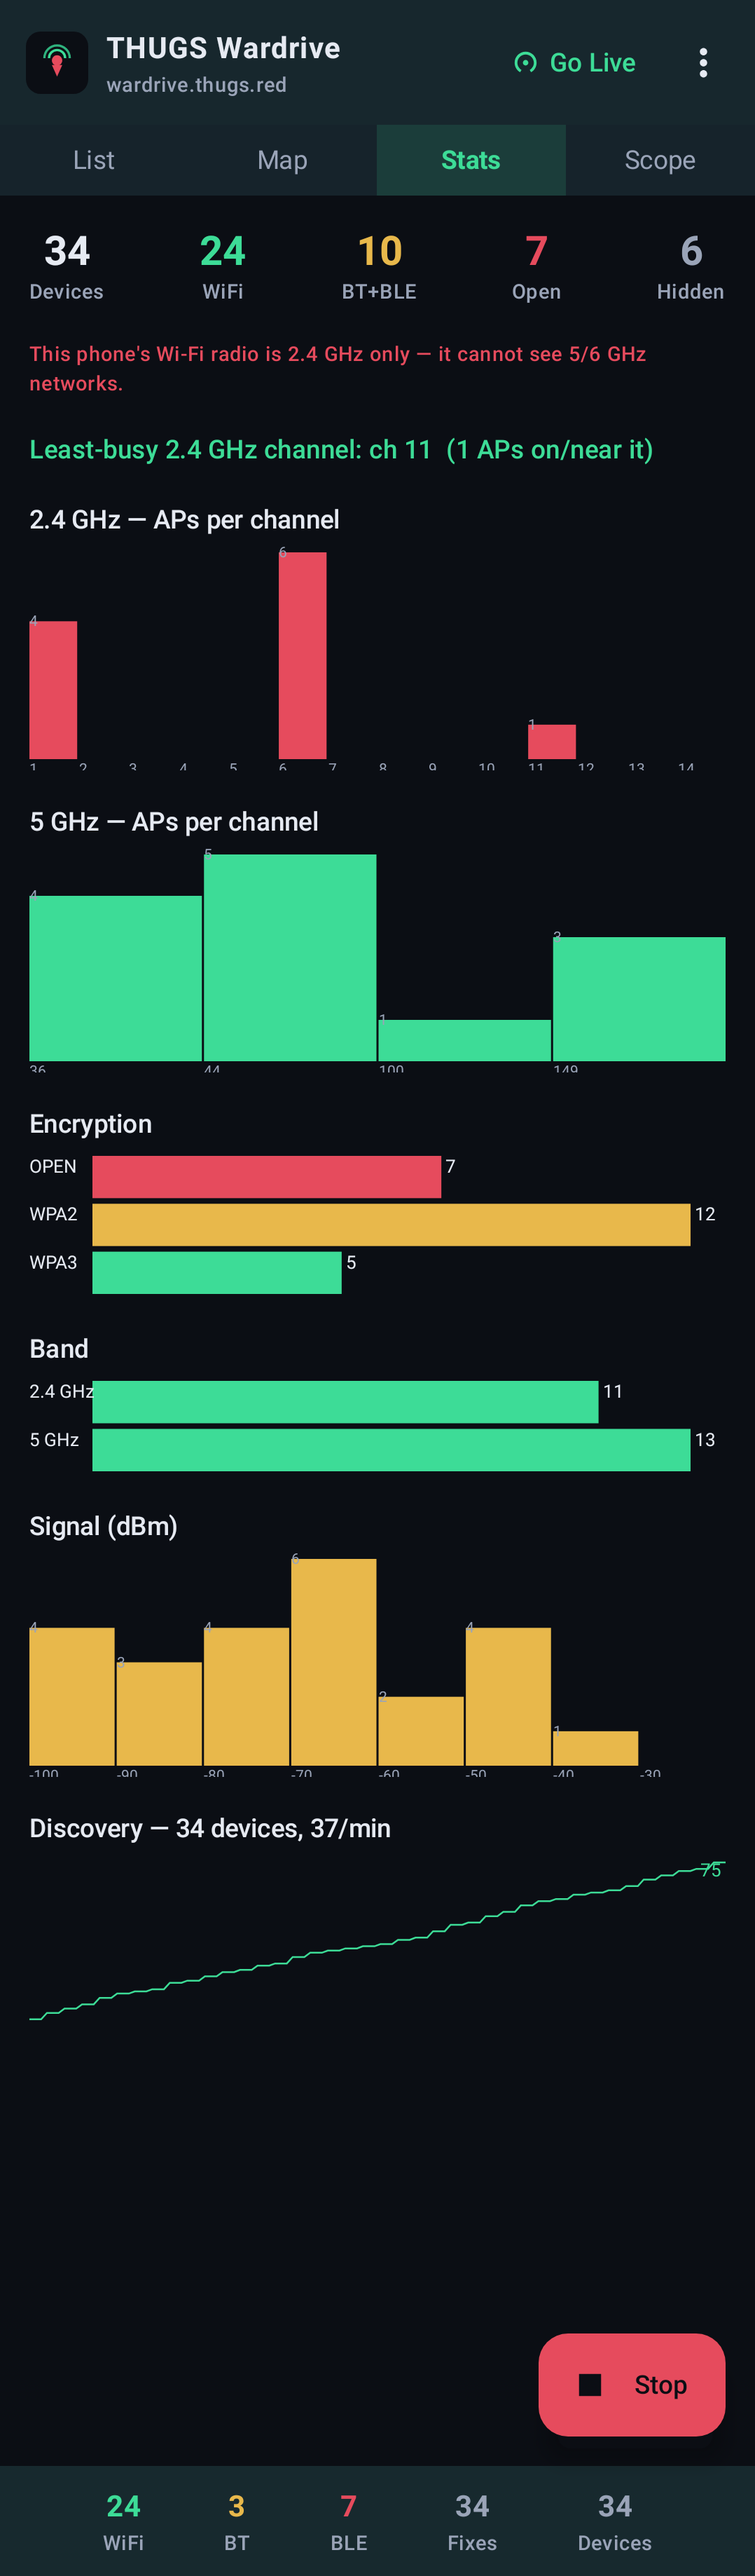
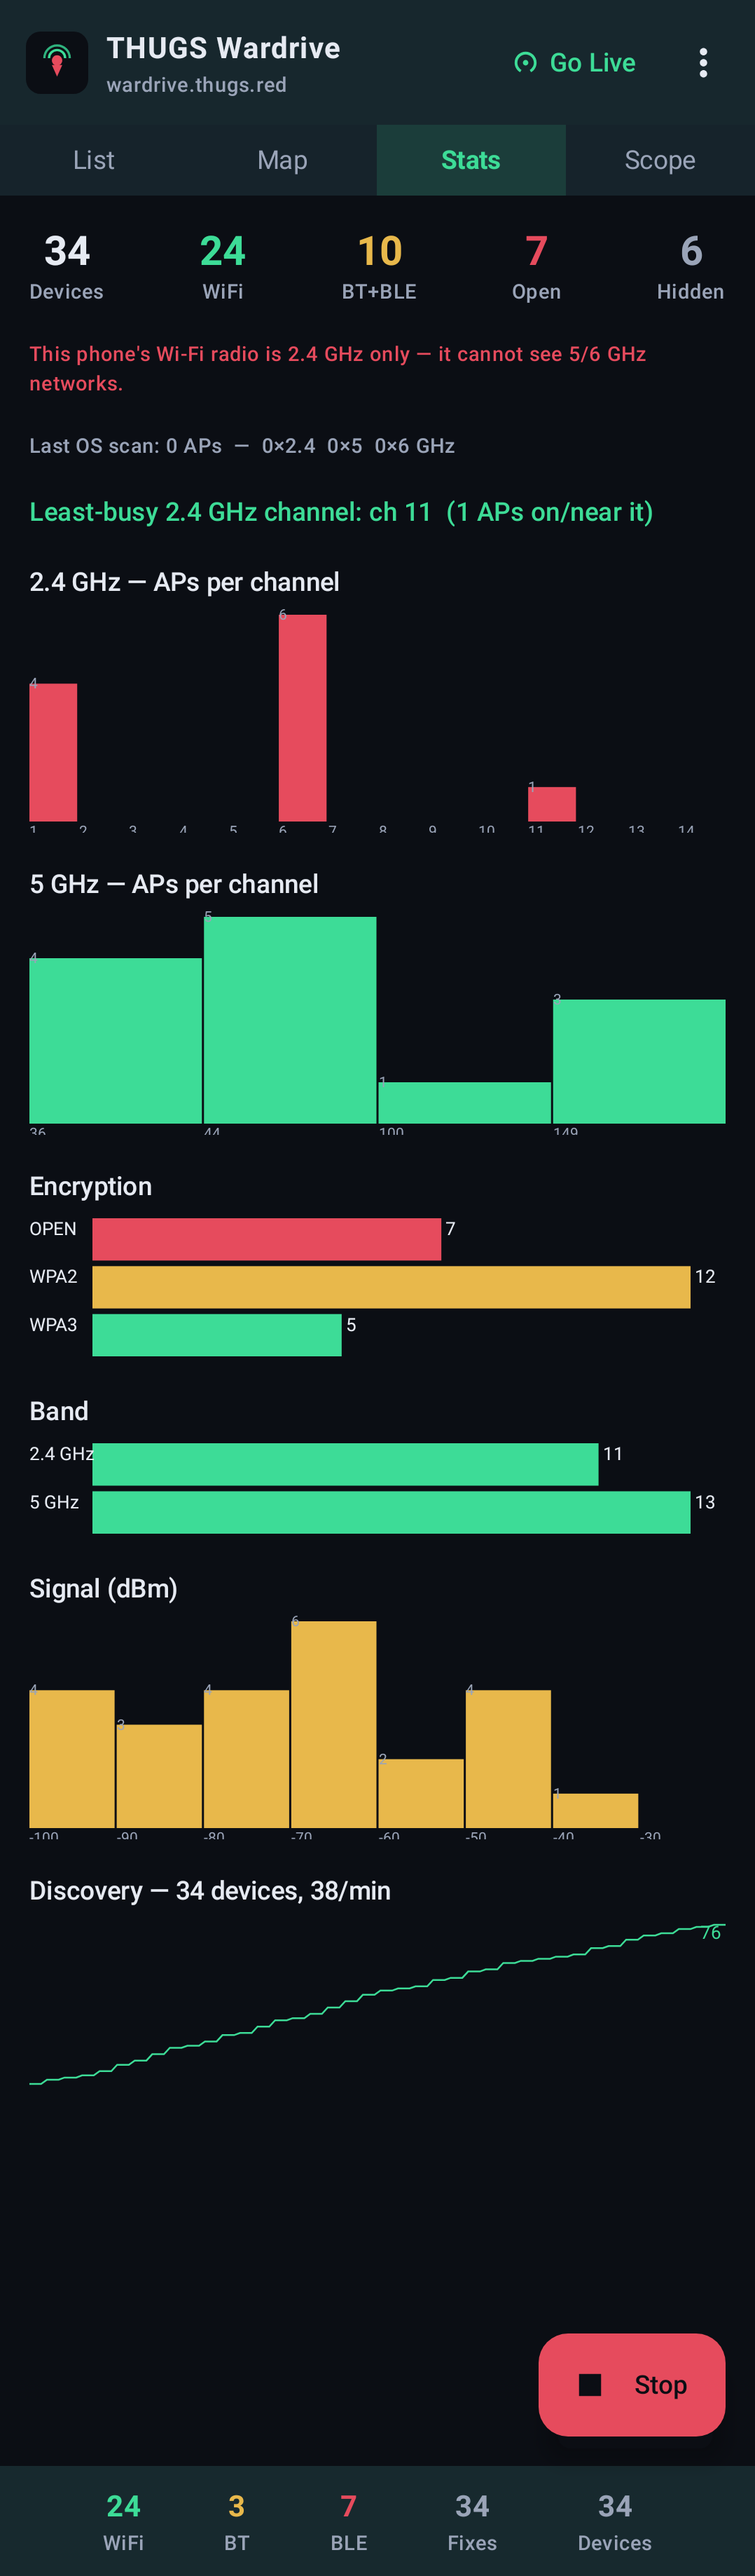
v1.9: live per-band scan diagnostic + Xiaomi 5 GHz guidance
- Stats shows a live breakdown of the OS scan cache by band ("Last OS scan: N
  APs — X×2.4  Y×5  Z×6 GHz"). Y=0 on a dual-band phone means the ROM, not the
  app, is withholding 5 GHz — the app applies no band filter.
- Settings: device band support, a "Scan now (test)" button, and Xiaomi/MIUI
  guidance (Wi-Fi power saving / Wi-Fi assistant off, non-DFS test channel,
  scan-throttling off).
- WifiScanner honours EXTRA_RESULTS_UPDATED=false to retry a failed scan sooner.
- Optimise guide: "No 5 GHz networks showing up?" section.

versionName 1.9, versionCode 10.

Claude-Session: https://claude.ai/code/session_012N825MYhuppVoQzx9MpWpz

Changed region(s): [[0.0306, 0.1551, 0.9796, 0.7445], [0.7653, 0.1551, 0.7959, 0.2171], [0.6429, 0.1551, 0.6735, 0.2171]]

diff --git a/app/src/main/java/red/thugs/wardrive/ui/StatsScreen.kt b/app/src/main/java/red/thugs/wardrive/ui/StatsScreen.kt
@@ -13,6 +13,8 @@ import androidx.compose.foundation.verticalScroll
 import androidx.compose.material3.MaterialTheme
 import androidx.compose.material3.Text
 import androidx.compose.runtime.Composable
+import androidx.compose.runtime.getValue
+import androidx.compose.runtime.produceState
 import androidx.compose.runtime.remember
 import androidx.compose.ui.Alignment
 import androidx.compose.ui.Modifier
@@ -88,6 +90,31 @@ fun StatsScreen(
             },
             style = MaterialTheme.typography.labelSmall,
             color = if (radioBands.size == 1) cs.tertiary else cs.onSurfaceVariant,
+        )
+
+        // Live view of what the OS's scan cache actually contains, by band.
+        val rawScan by produceState(initialValue = Triple(0, 0, 0), ctx) {
+            val wm = ctx.applicationContext.getSystemService(android.content.Context.WIFI_SERVICE)
+                as android.net.wifi.WifiManager
+            while (true) {
+                @Suppress("MissingPermission", "DEPRECATION")
+                val res = runCatching { wm.scanResults }.getOrDefault(emptyList())
+                value = Triple(
+                    res.count { it.frequency in 2401..2500 },
+                    res.count { it.frequency in 4901..5899 },
+                    res.count { it.frequency >= 5900 },
+                )
+                kotlinx.coroutines.delay(3000)
+            }
+        }
+        val (rb2, rb5, rb6) = rawScan
+        val fiveMissing = radioBands.contains("5") && rb5 == 0
+        Text(
+            "Last OS scan: ${rb2 + rb5 + rb6} APs  —  ${rb2}×2.4  ${rb5}×5  ${rb6}×6 GHz" +
+                if (fiveMissing) "  ·  the OS is returning no 5 GHz — Wi-Fi power-saving or scan throttling on your ROM" else "",
+            style = MaterialTheme.typography.labelSmall,
+            fontWeight = FontWeight.Medium,
+            color = if (fiveMissing) cs.tertiary else cs.onSurfaceVariant,
         )
 
         WifiInfo.bestChannel24(observations)?.let { (ch, n) ->

diff --git a/app/src/main/java/red/thugs/wardrive/ui/SettingsScreen.kt b/app/src/main/java/red/thugs/wardrive/ui/SettingsScreen.kt
@@ -87,6 +87,19 @@ fun SettingsScreen(
             color = if (bands == "2.4") MaterialTheme.colorScheme.tertiary else MaterialTheme.colorScheme.onSurfaceVariant,
             modifier = Modifier.padding(vertical = 4.dp),
         )
+        if (bands != "2.4") {
+            Text(
+                "Not seeing 5 GHz on a dual-band phone? It's the ROM, not the app — the OS is only " +
+                    "handing us 2.4 GHz results. On Xiaomi/MIUI: Settings → Wi-Fi → Additional settings → " +
+                    "turn OFF “Wi-Fi power saving mode” / “Wi-Fi assistant”; keep the test AP on a non-DFS " +
+                    "channel (36–48 or 149–165); and set Developer options → “Wi-Fi scan throttling” off. " +
+                    "Stats shows the live per-band count from the OS.",
+                style = MaterialTheme.typography.labelSmall,
+                color = MaterialTheme.colorScheme.onSurfaceVariant,
+                modifier = Modifier.padding(vertical = 2.dp),
+            )
+        }
+        TextButton(onClick = { runCatching { @Suppress("DEPRECATION") wm.startScan() } }) { Text("Scan now (test)") }
         Text(
             if (throttled) {
                 "Wi-Fi scan throttling: ON — Android limits scans to ~4 per 2 min. " +

diff --git a/app/src/main/java/red/thugs/wardrive/scan/WifiScanner.kt b/app/src/main/java/red/thugs/wardrive/scan/WifiScanner.kt
@@ -51,7 +51,12 @@ class WifiScanner(
 
     private val receiver = object : BroadcastReceiver() {
         override fun onReceive(context: Context?, intent: Intent?) {
-            if (intent?.action == WifiManager.SCAN_RESULTS_AVAILABLE_ACTION) ingest()
+            if (intent?.action != WifiManager.SCAN_RESULTS_AVAILABLE_ACTION) return
+            // If a scan explicitly failed, let the next nudge retry sooner.
+            if (intent.getBooleanExtra(WifiManager.EXTRA_RESULTS_UPDATED, true).not()) {
+                lastStartScan = 0L
+            }
+            ingest()
         }
     }
 

diff --git a/docs/Optimising-your-phone.md b/docs/Optimising-your-phone.md
@@ -75,6 +75,23 @@ You don't need to micro-manage these:
 - **GPS every ~2 s**, not as fast as the chipset allows.
 - **Wake lock** is held only while a session is running, for screen-off scanning.
 
+## No 5 GHz networks showing up?
+
+The app applies **no band filter** — it shows everything `getScanResults()` returns.
+If 5 GHz is missing, the OS isn't giving it to us. Check, in order:
+
+1. **Stats** shows your radio's bands and a live per-band count of the last OS
+   scan. `0×5 GHz` there means the OS cache has no 5 GHz — the rest is a phone
+   setting. A 2.4-GHz-only radio (`802.11 b/g/n`, no `a`/`ac`/`ax`) simply can't.
+2. **Xiaomi / MIUI / HyperOS**: Settings → Wi-Fi → Additional settings → turn off
+   **Wi-Fi power saving mode** and **Wi-Fi assistant**. These restrict scanning
+   to the connected band on battery.
+3. **Developer options → Wi-Fi scan throttling → off** (Settings shows the state).
+4. Put the **test AP on a non-DFS channel** (36–48 or 149–165). DFS channels
+   (52–144) take longer to appear and some regions block them.
+5. Make sure the phone's **Wi-Fi region/country** is set (an unset region hides
+   most 5 GHz channels).
+
 ## Realistic expectations
 
 - Plan for the phone to *not* gain charge while scanning even on a good charger —
